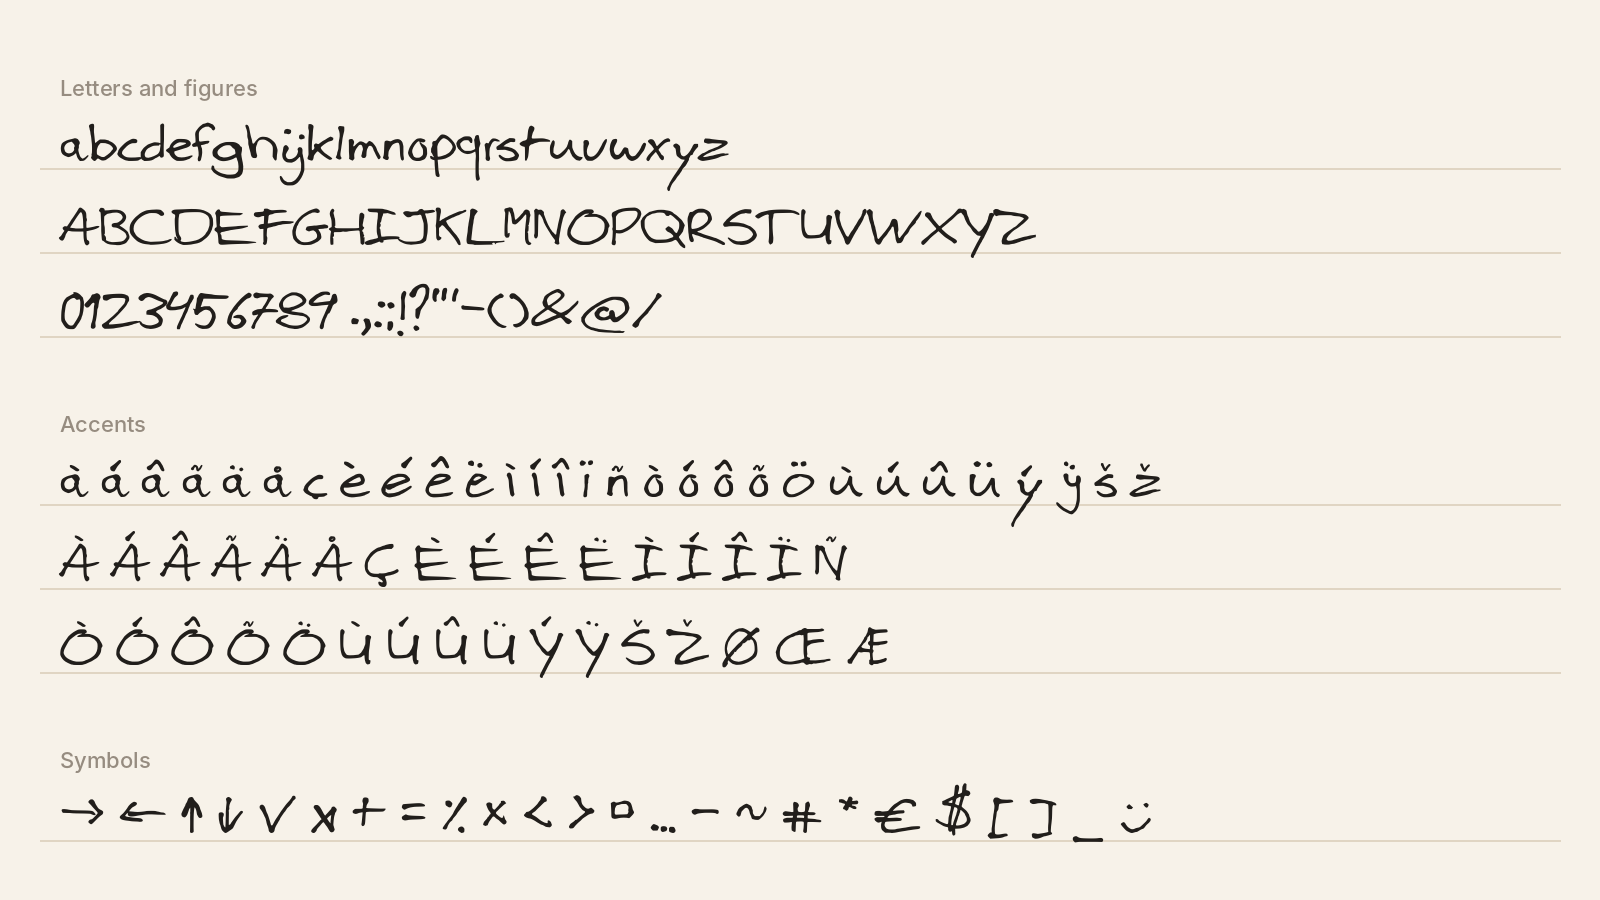
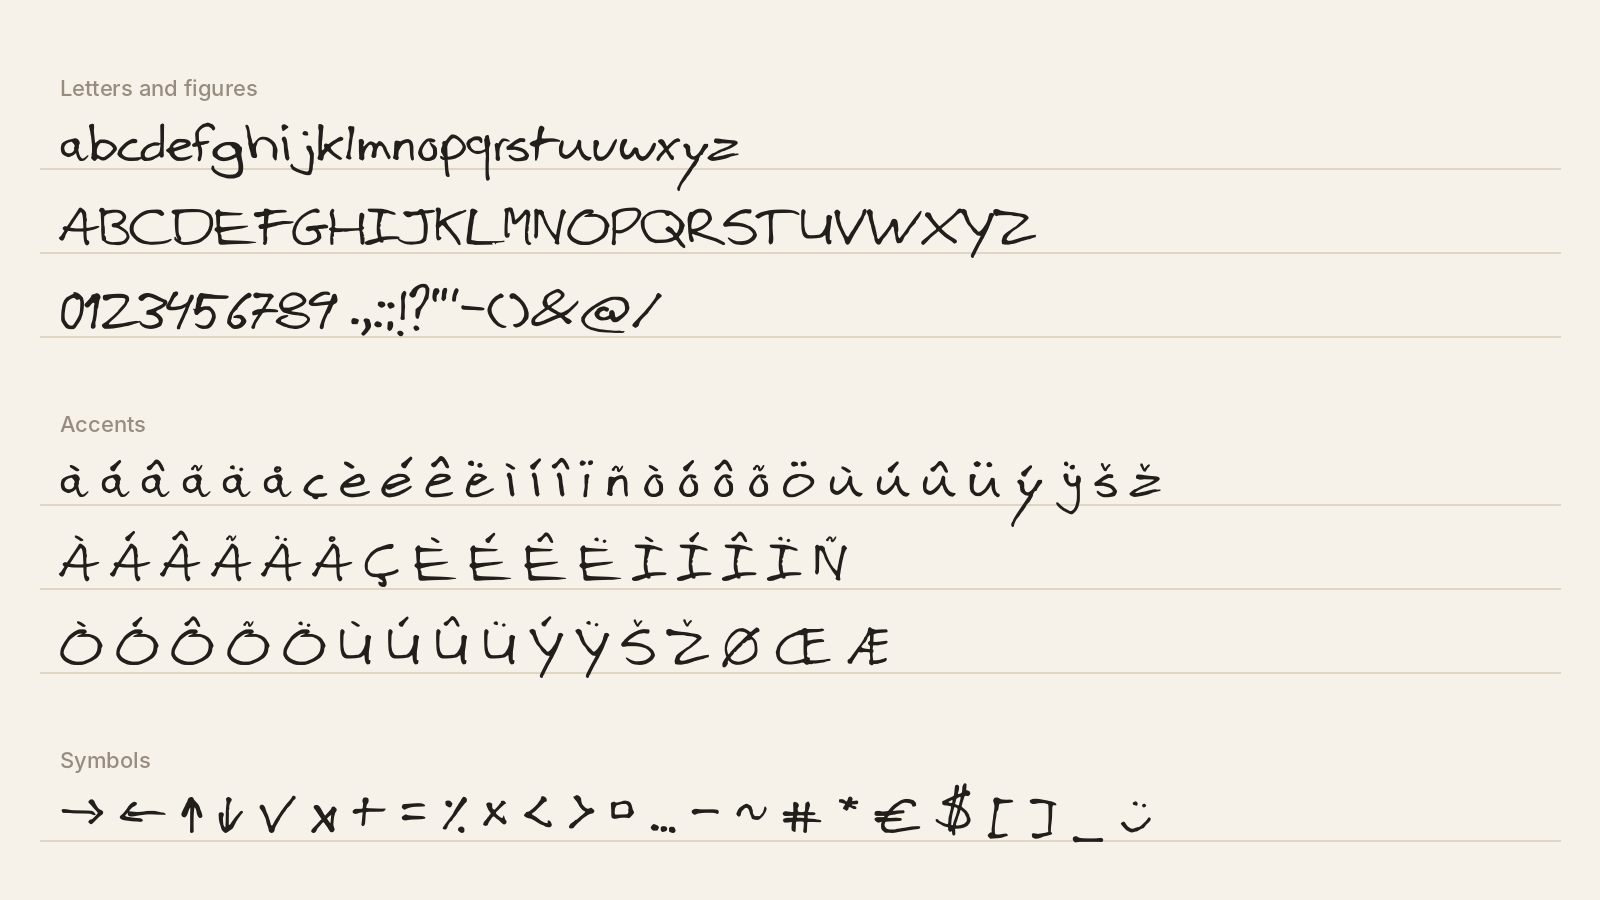
Specimen: characters on their own, without ligatures
Claude-Session: https://claude.ai/code/session_0177kWNPQr496jmLYs75gyw6

Changed region(s): [[0.1562, 0.1244, 0.4688, 0.2178]]

diff --git a/scripts/specimen.py b/scripts/specimen.py
@@ -7,7 +7,7 @@ INK, PAPER, RULE, MUTED = (33, 30, 27), (247, 242, 233), (224, 213, 195), (150, 
 LABEL = ImageFont.truetype('/usr/share/fonts/opentype/inter/Inter-Medium.otf', 22) if __import__('os').path.exists('/usr/share/fonts/opentype/inter/Inter-Medium.otf') else ImageFont.load_default()
 
 
-def sheet(path, lines, size=52, width=1600, lead=84):
+def sheet(path, lines, size=52, width=1600, lead=84, features=None):
     h = 60 + lead * len(lines)
     im = Image.new('RGB', (width, h), PAPER); d = ImageDraw.Draw(im)
     y = 30
@@ -19,7 +19,7 @@ def sheet(path, lines, size=52, width=1600, lead=84):
         else:
             f = ImageFont.truetype(FONT, size, layout_engine=ImageFont.Layout.RAQM)
             d.line([(40, y + int(size * 1.05)), (width - 40, y + int(size * 1.05))], fill=RULE, width=2)
-            d.text((60, y), text, font=f, fill=INK)
+            d.text((60, y), text, font=f, fill=INK, features=features)
         y += lead
     im.save(path)
 
@@ -35,7 +35,7 @@ sheet('specimen/characters.png', [
     ('text', 'Ò Ó Ô Õ Ö Ù Ú Û Ü Ý Ÿ Š Ž Ø Œ Æ'),
     ('label', 'Symbols'),
     ('text', '→ ← ↑ ↓ ✓ ✗ + = % × < > • … – ~ # * € $ [ ] _ ◡̈'),
-])
+], features=['-liga', '-calt'])  # every character on its own, no joined letters or alternates
 def wrap(text, font, width):
     lines, line = [], ''
     for word in text.split(' '):
